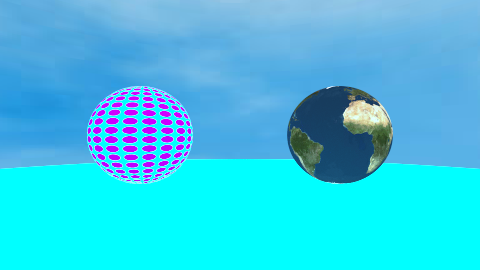
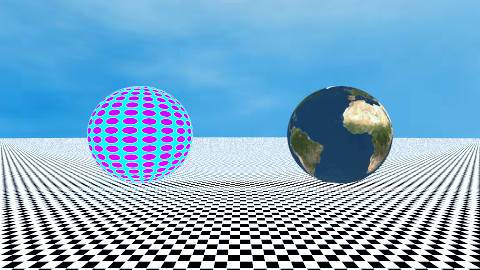
Finished 10

diff --git a/src/a10/Main.java b/src/a10/Main.java
@@ -13,7 +13,7 @@ public class Main {
       final int ABTASTUNGEN_PRO_PIXEL = 100;
 
       Shape background = new Background(new BackMat(new TextureTransform(new Texture("doc/sky.jpg"), Matrix.rotation(Vector.yAxis, 0))));
-      Shape ground = new Plane(Vector.point(0, -1, 0), Vector.direction(0, 1, 0), 100, new ChessGrid(Color.black, Color.white, 100));
+      Shape ground = new Plane(Vector.point(0, -1, 0), Vector.direction(0, 1, 0), 100, new DiffuseMaterial(new ChessGrid(Color.white, Color.black, 1000)));
       Sphere earth = new Sphere(Vector.point(2, 0, -5), 1, new DiffuseMaterial(new TextureTransform(new Texture("doc/erde.jpg"), Matrix.rotation(Vector.yAxis, 10))));
       Sphere polka = new Sphere(Vector.point(-2, 0, -5), 1, new DiffuseMaterial(new TextureTransform(new PolkaDots(Color.violet, Color.cyan, 0.4), Matrix.scaling(20, 20, 0))));
 

diff --git a/src/a10/Plane.java b/src/a10/Plane.java
@@ -37,8 +37,8 @@ public class Plane implements Shape {
             double t = a / b;
             if (Vector.length(Vector.direction(Vector.add(r.x0, Vector.subtract(p, Vector.multiply(t, r.d))))) < radius && r.isValid(t)) {
                 Point hPoint = Vector.add(r.x0, Vector.multiply(t, r.d));                
-                double u = (p.x / radius) + 0.5;
-	            double v = (p.z / radius) + 0.5;
+                double u = (hPoint.x / radius) + 0.5;
+	            double v = (hPoint.z / radius) + 0.5;
                 return new Hit(hPoint, t, c, n, mat, u, v);
             }
             return null;

diff --git a/src/a10/ChessGrid.java b/src/a10/ChessGrid.java
@@ -17,7 +17,6 @@ public class ChessGrid implements Sampler {
 	public Color getColor(double u, double v) {
 		int ui = (int) Math.floor((u - Math.floor(u)) * n);
 		int vi = (int) Math.floor((v - Math.floor(v)) * n);
-
 		if((ui + vi) % 2 == 0){
 			return cx;
 		} else {
